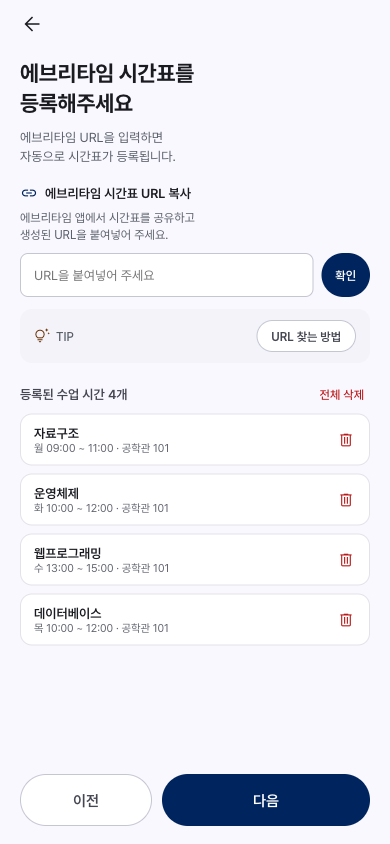
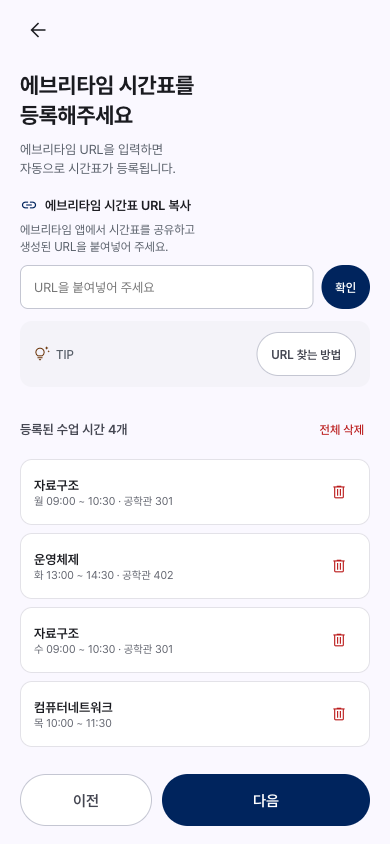
README 새 기능 반영과 스크린샷 재촬영
- 날짜 확정·취소, 모임 수정·나가기, 시간표 미등록 표시, 계정 항목 추가
- API 표에 모두 읽음 추가
- 현재 화면으로 스크린샷을 가상 데이터로 다시 촬영

diff --git a/README.md b/README.md
@@ -100,11 +100,13 @@
 | **Google 로그인** | 구글 계정으로 가입하고 로그인합니다. |
 | **시간표 등록** | 에브리타임 시간표 URL을 파싱해 등록하고, 등록된 수업을 확인·삭제합니다. 수업을 고정 일정으로 직접 입력할 수도 있습니다. |
 | **고정 일정** | 알바·동아리 등 수업 외 반복 일정을 등록·수정·삭제합니다. |
-| **모임 생성 / 초대** | 모임 길이(30분~4시간)를 정해 모임을 만들고 초대 링크로 팀원을 모읍니다. |
+| **모임 생성 / 초대** | 모임 길이(30분~4시간)를 정해 모임을 만들고 초대 링크로 팀원을 모읍니다. 모임장은 모임을 수정·삭제하고, 참여자는 나갈 수 있습니다. |
 | **시간 추천** | 참여자 전원의 공통 빈 시간에서 모임 길이만큼 들어갈 시간을 찾고, 공강 길이·참여 인원·희망 시간대·희망 장소·이동 거리를 점수화(규칙 기반)해 후보 시간을 추천 이유와 함께 제시합니다. |
-| **일정 확정** | 추천 후보 중 하나로 모임 시간을 확정합니다. 확정된 일정은 참여자 시간표에 반영되고, 모임 삭제·탈퇴 시 자동으로 정리됩니다. |
+| **일정 확정** | 추천 후보 중 하나를 가장 가까운 실제 날짜로 확정하고, 필요하면 취소합니다. 확정된 일정은 참여자 시간표에 반영되며, 모임이 끝나면 자동으로 종료됩니다. |
+| **시간표 미등록 표시** | 시간표가 없는 참여자는 추천 화면과 모임 상세에 표시하고, 초대로 참여할 때 등록을 안내합니다. |
 | **캘린더 / 대시보드** | 내 시간표와 모임 일정을 캘린더와 홈 화면에서 확인합니다. |
-| **알림** | 모임 참여·확정·변경 알림을 확인합니다. |
+| **알림** | 모임 참여·확정·변경 알림을 확인하고 한 번에 읽음 처리합니다. |
+| **계정** | 닉네임을 정하고, 약관을 확인하고, 회원 탈퇴로 계정과 개인 데이터를 삭제합니다. |
 
 ---
 
@@ -246,7 +248,7 @@ Base URL: `/api` · 인증이 필요한 요청은 JWT를 사용합니다.
 | 초대 | `/meetings/invite/{token}/` · `/meetings/invite/{token}/join/` |
 | 추천 · 확정 | `/meetings/{id}/recommendations/` · `/meetings/{id}/confirm/` · `/meetings/{id}/confirmed/` |
 | 대시보드 | `/dashboard/summary/` |
-| 알림 | `/notifications/` · `/notifications/read/{id}/` |
+| 알림 | `/notifications/` · `/notifications/read/{id}/` · `/notifications/read-all/` |
 
 ---
 
